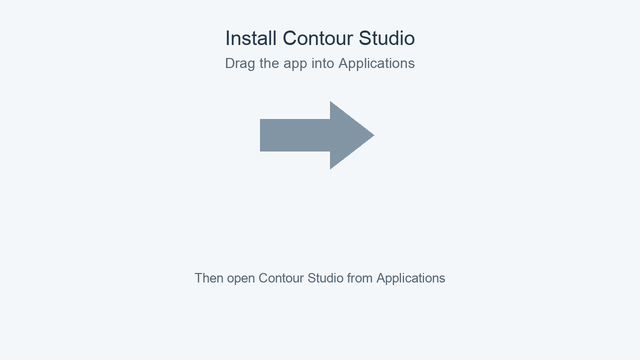
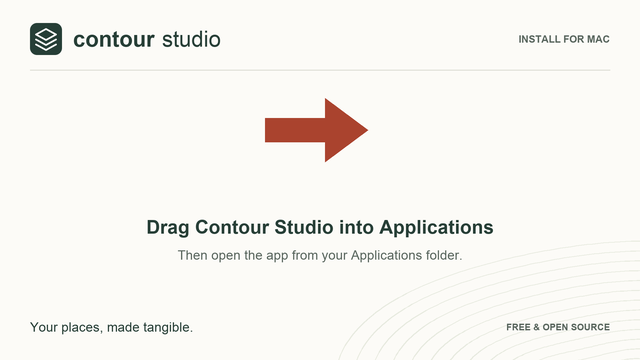
Brand the Mac installation window with Contour Studio artwork

diff --git a/scripts/create_installer_background.py b/scripts/create_installer_background.py
@@ -1,0 +1,45 @@
+"""Render the Mac installer artwork using Contour Studio's existing brand assets.
+
+Run with Pillow installed. Finder icons sit at (160, 130) and (470, 130).
+"""
+from pathlib import Path
+import math
+from PIL import Image, ImageDraw, ImageFont
+
+ROOT = Path(__file__).resolve().parents[1]
+SCALE = 3
+PAPER, GREEN, INK, MUTED, CLAY = '#fcfbf7', '#263e36', '#28312c', '#59665e', '#aa432e'
+image = Image.new('RGB', (640*SCALE, 360*SCALE), PAPER)
+draw = ImageDraw.Draw(image)
+
+def font(size, bold=False):
+    name = 'Arial Bold.ttf' if bold else 'Arial.ttf'
+    return ImageFont.truetype('/System/Library/Fonts/Supplemental/'+name, size*SCALE)
+
+def text(x, y, value, size, fill=INK, bold=False, anchor='mm'):
+    draw.text((x*SCALE,y*SCALE),value,font=font(size,bold),fill=fill,anchor=anchor)
+
+# Subtle contour lines stay below the installation targets and instructions.
+for radius in range(50, 300, 18):
+    points=[]
+    for i in range(161):
+        angle=math.pi+i*math.pi/160
+        r=radius+7*math.sin(angle*4)
+        points.append(((620+r*math.cos(angle))*SCALE,(398+r*.55*math.sin(angle))*SCALE))
+    draw.line(points,fill='#e7eadf',width=SCALE)
+
+logo=Image.open(ROOT/'public/icon-192.png').convert('RGBA').resize((32*SCALE,32*SCALE),Image.Resampling.LANCZOS)
+image.paste(logo,(30*SCALE,23*SCALE),logo)
+text(73,39,'contour',22,GREEN,True,'lm')
+text(162,39,'studio',22,GREEN,False,'lm')
+text(610,39,'INSTALL FOR MAC',10,MUTED,True,'rm')
+draw.line([(30*SCALE,70*SCALE),(610*SCALE,70*SCALE)],fill='#dedfd6',width=SCALE)
+
+# A proper graphic arrow, centred between the native draggable icons.
+draw.polygon([(265*SCALE,118*SCALE),(325*SCALE,118*SCALE),(325*SCALE,98*SCALE),(368*SCALE,130*SCALE),(325*SCALE,162*SCALE),(325*SCALE,142*SCALE),(265*SCALE,142*SCALE)],fill=CLAY)
+text(320,227,'Drag Contour Studio into Applications',19,GREEN,True)
+text(320,255,'Then open the app from your Applications folder.',13,MUTED)
+text(30,327,'Your places, made tangible.',13,GREEN,False,'lm')
+text(610,327,'FREE & OPEN SOURCE',9,MUTED,True,'rm')
+image.resize((640,360),Image.Resampling.LANCZOS).save(ROOT/'desktop/installer-background.png')
+print(ROOT/'desktop/installer-background.png')
